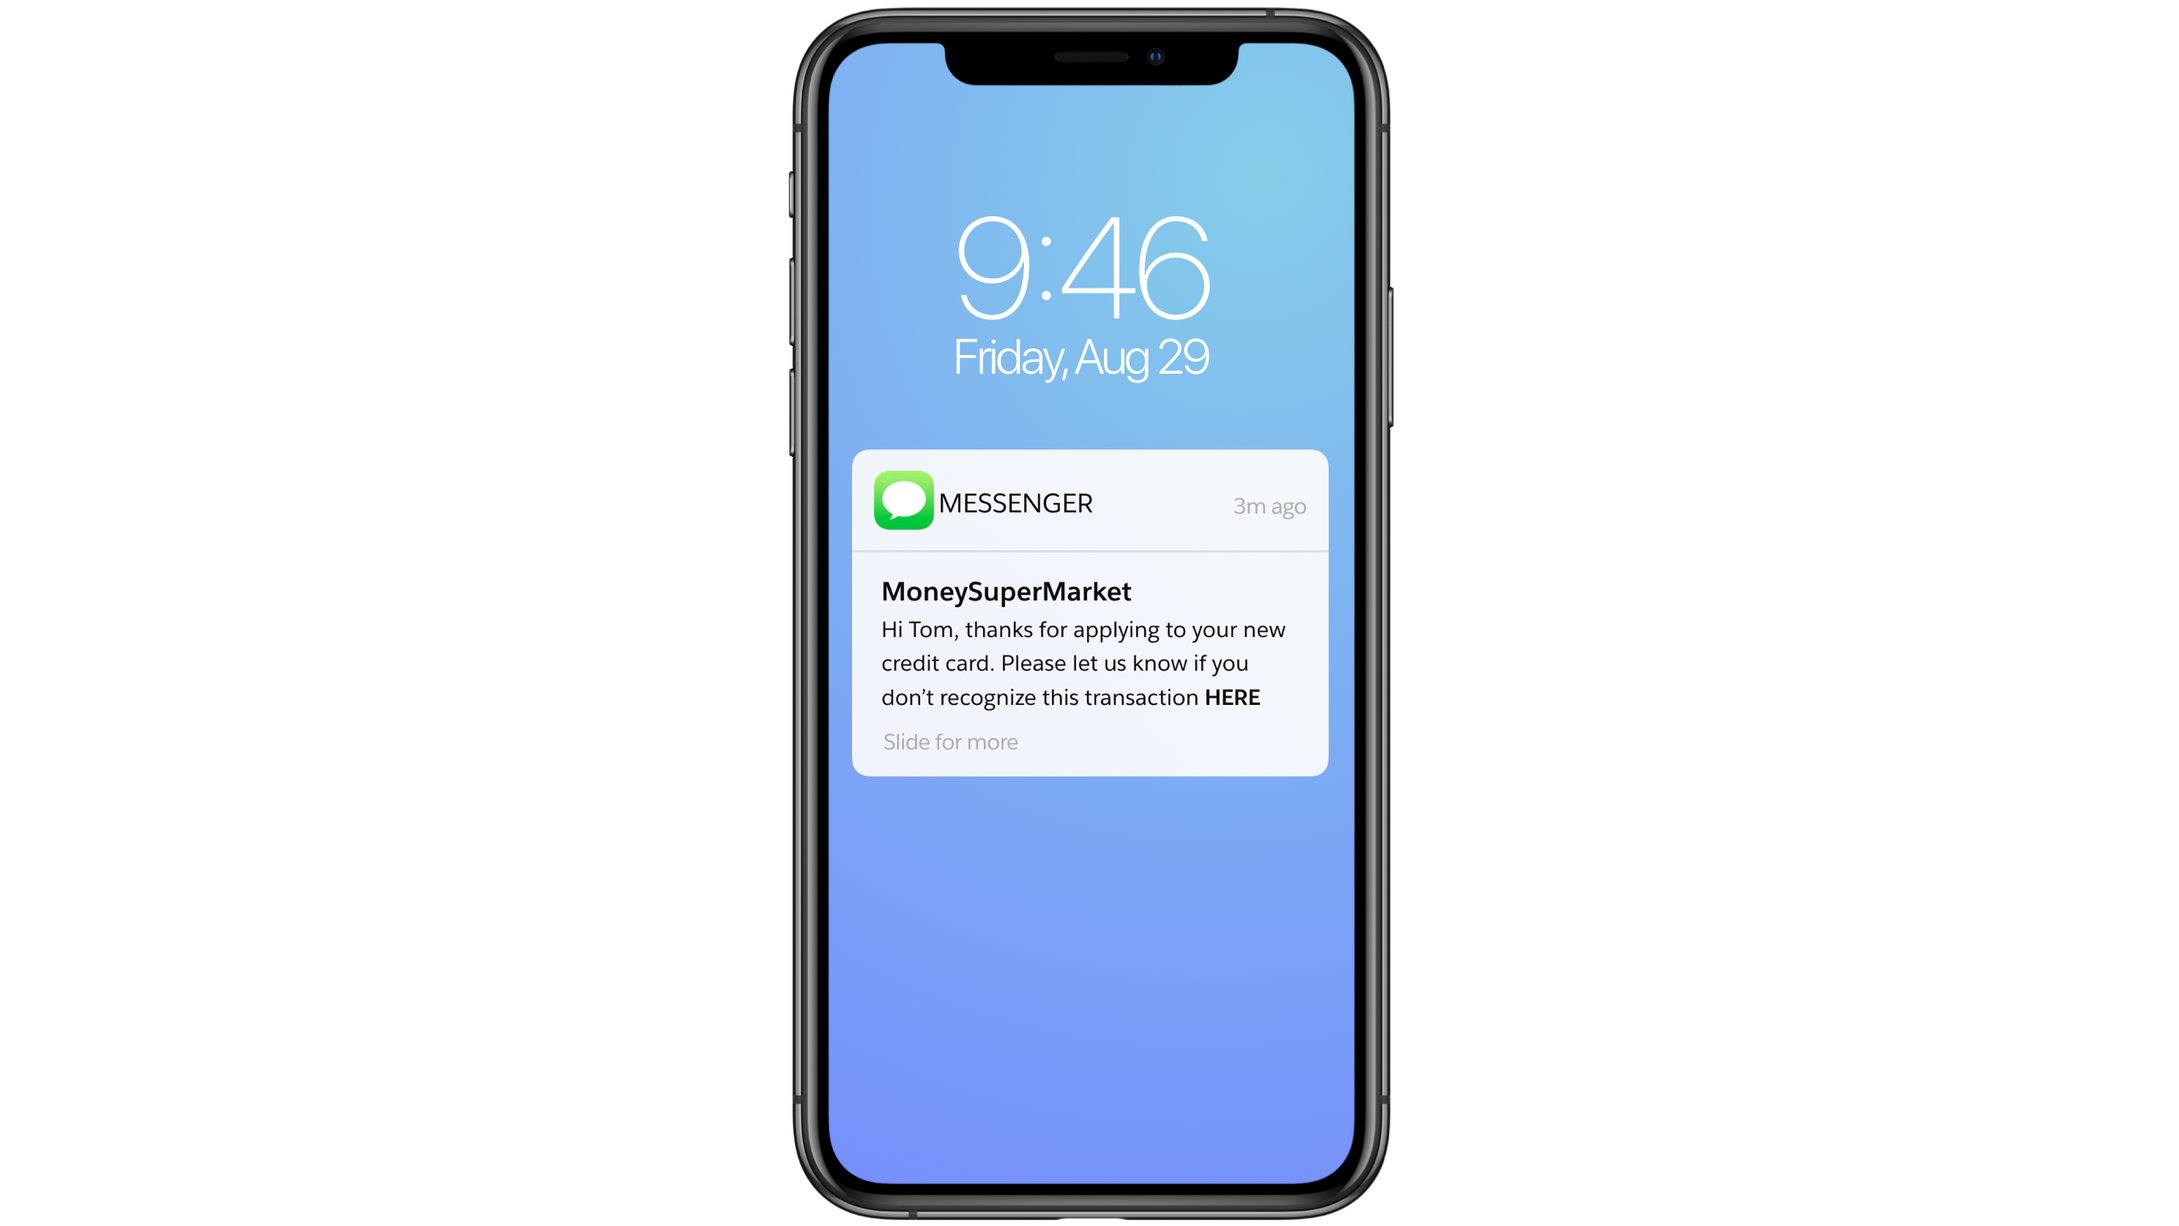
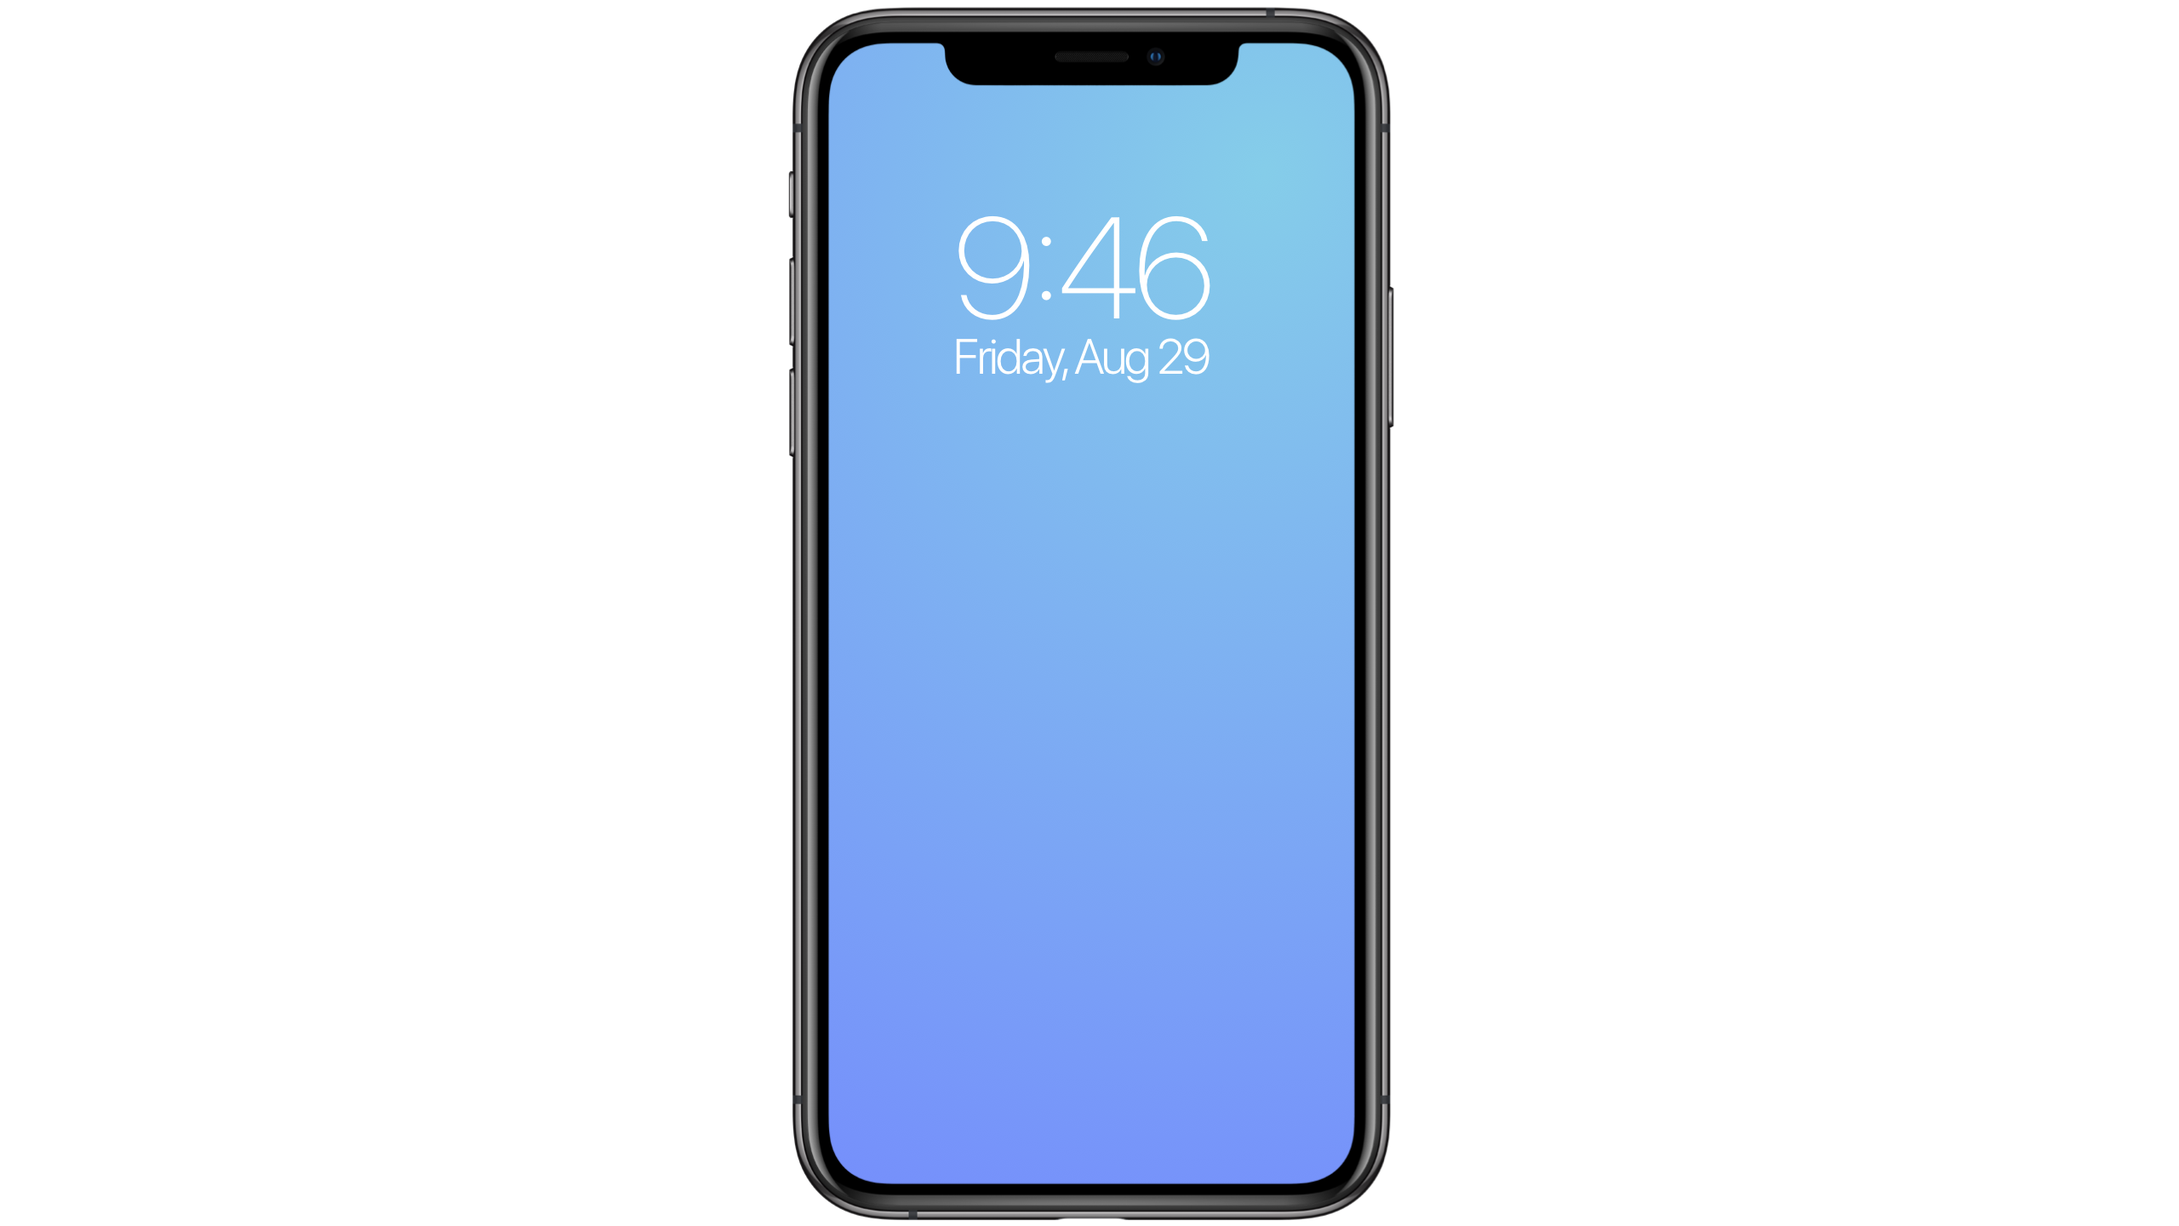
WIP

Changed region(s): [[0.375, 0.3438, 0.625, 0.6562]]

diff --git a/magick-flows-web-root/magick-flows/msm/assets/styles.css b/magick-flows-web-root/magick-flows/msm/assets/styles.css
@@ -2,7 +2,7 @@
 /* This is done to preload images and reduce load flicker */
 body::after {
   backface-visibility: visible;
-  content: url("/magick-flows/msm/main/0000___ID=msm-home___DATA=is-own-header__own-header-height--60___NOTES=Click-the-“Mortgages”-card.png") url("/magick-flows/msm/main/0050___ID=msm-mortgages___DATA=is-own-header__own-header-height--60___NOTES=Click-the-pink-“eligibility”-button__Near-the-house.png") url("/magick-flows/msm/main/0100___ID=msm-next___DATA=is-own-header__own-header-height--60___NOTES=Click-to-go-to-next-step.png") url("/magick-flows/msm/main/0600___ID=msm___DATA=unset___NOTES=Click-to-move-on.png") url("/magick-flows/msm/main/0700___ID=msm___DATA=unset___NOTES=Click-to-move-on.png") url("/magick-flows/msm/main/0800___ID=msm___DATA=unset___NOTES=Click-to-move-on.png") url("/magick-flows/msm/main/0900___ID=msm___DATA=unset___NOTES=Click-to-move-on.png") url("/magick-flows/msm/main/1000___ID=msm___DATA=use-step-transition__step-transition_app-switch__use-mobile-backdrop___NOTES=Click-to-move-on.png") url("/magick-flows/msm/main/1100___ID=msm___DATA=use-step-transition__step-transition_auto-advance__step-transition-timing--fast___NOTES=Click-to-move-on.png") url("/magick-flows/msm/main/1101___ID=msm___DATA=use-step-transition__step-transition_auto-advance__step-transition-timing--fast___NOTES=Click-to-move-on.png") url("/magick-flows/msm/main/1102___ID=msm___DATA=use-step-transition__step-transition_auto-advance__step-transition-timing--fast___NOTES=Click-to-move-on.png") url("/magick-flows/msm/main/1103___ID=msm___DATA=use-step-transition__step-transition_auto-advance__step-transition-timing--fast___NOTES=Click-to-move-on.png") url("/magick-flows/msm/main/1104___ID=msm___DATA=use-step-transition__step-transition_auto-advance__step-transition-timing--fast___NOTES=Click-to-move-on.png") url("/magick-flows/msm/main/1120___ID=msm___DATA=unset___NOTES=Click-to-move-on.png") url("/magick-flows/msm/main/1300___ID=msm___DATA=unset___NOTES=Click-to-move-on.png") url("/magick-flows/msm/main/1310___ID=msm-hello-there-email-entered___DATA=use-step-transition__step-transition_auto-advance__step-transition-timing--fast___NOTES=Click-to-move-on.png") url("/magick-flows/msm/main/1320___ID=msm-hello-there-email-entered___DATA=use-step-transition__step-transition_auto-advance__step-transition-timing--fast___NOTES=Click-to-move-on.png") url("/magick-flows/msm/main/1330___ID=msm-hello-there-email-entered___DATA=use-step-transition__step-transition_auto-advance__step-transition-timing--fast___NOTES=Click-to-move-on.png") url("/magick-flows/msm/main/1340___ID=msm-hello-there-email-entered___DATA=use-step-transition__step-transition_auto-advance__step-transition-timing--fast___NOTES=Click-to-move-on.png") url("/magick-flows/msm/main/1350___ID=msm-hello-there-email-entered___DATA=use-step-transition__step-transition_auto-advance__step-transition-timing--fast___NOTES=Click-to-move-on.png") url("/magick-flows/msm/main/1360___ID=msm-hello-there-email-entered___DATA=use-step-transition__step-transition_auto-advance__step-transition-timing--fast___NOTES=Click-to-move-on.png") url("/magick-flows/msm/main/1500___ID=msm___DATA=unset___NOTES=Click-to-move-on.png") url("/magick-flows/msm/main/1600___ID=msm___DATA=use-step-transition__step-transition_app-switch___NOTES=Click-to-move-on.png") url("/magick-flows/msm/main/1700___ID=msm___DATA=unset___NOTES=Click-to-move-on.png") url("/magick-flows/msm/main/2200___ID=msm-edit-email-begins___DATA=show-drawer-from-left--on-arrival__hide-drawer-from-left--never__use-step-transition__step-transition_auto-advance__step-transition-timing--normal___NOTES=Click-to-move-on.png") url("/magick-flows/msm/main/2210___ID=msm-edit-email___DATA=unset___NOTES=Click-to-move-on.png") url("/magick-flows/msm/main/2300___ID=msm___DATA=unset___NOTES=Click-to-move-on.png") url("/magick-flows/msm/main/2400___ID=msm___DATA=unset___NOTES=Click-to-move-on.png") url("/magick-flows/msm/main/2500___ID=msm___DATA=unset___NOTES=Click-to-move-on.png") url("/magick-flows/msm/main/2600___ID=msm___DATA=unset___NOTES=Click-to-move-on.png") url("/magick-flows/msm/main/2650___ID=msm-edit-email-will-end___DATA=unset___NOTES=Click-the-“Save”-button-to-close-the-email-editor.png") url("/magick-flows/msm/main/2700___ID=msm-edit-email-ends___DATA=show-drawer-from-left--instantly__hide-drawer-from-left--on-leave__use-step-transition__step-transition_auto-advance__step-transition-timing--normal___NOTES=Drawer-hides__Will-auto-advance.png") url("/magick-flows/msm/main/2800___ID=msm___DATA=unset___NOTES=Click-the-“Activate”-button.png") url("/magick-flows/msm/main/2900___ID=msm___DATA=use-step-transition__step-transition_app-switch___NOTES=Click-to-move-on.png") url("/magick-flows/msm/main/3100___ID=msm___DATA=unset___NOTES=Click-to-move-on.png") url("/magick-flows/msm/main/3200___ID=msm___DATA=use-step-transition__step-transition_app-switch___NOTES=Click-to-move-on.png") url("/magick-flows/msm/main/3300___ID=msm___DATA=unset___NOTES=Click-to-move-on.png") url("/magick-flows/msm/main/3500___ID=msm___DATA=use-step-transition__step-transition_app-switch___NOTES=Click-to-move-on.png") url("/magick-flows/msm/main/3600___ID=msm-push-credit-card___DATA=@AAFAST___NOTES=Click-to-move-on.png") url("/magick-flows/msm/main/3650___ID=msm-push-credit-card___DATA=show-ios-notification___NOTES=Click-to-move-on.png") url("/magick-flows/msm/main/3700___ID=msm-credit-card___DATA=unset___NOTES=Click-to-move-on.png") url("/magick-flows/msm/main/3700___ID=msm-iphone-home-screen___DATA=use-step-transition__step-transition_app-switch___NOTES=Click-to-move-on.png") url("/magick-flows/msm/main/4000___ID=msm-cc-app-msg___DATA=show-ios-notification___NOTES=Click-to-move-on.png") url("/magick-flows/msm/main/4200___ID=msm___DATA=use-step-transition__step-transition_app-switch___NOTES=Click-to-move-on.png") url("/magick-flows/msm/main/4300___ID=msm___DATA=unset___NOTES=Click-to-move-on.png") url("/magick-flows/msm/main/4500___ID=msm___DATA=use-step-transition__step-transition_auto-advance__step-transition-timing--normal___NOTES=Click-to-move-on.png") url("/magick-flows/msm/main/4600___ID=msm___DATA=use-step-transition__step-transition_auto-advance__step-transition-timing--normal___NOTES=Click-to-move-on.png") url("/magick-flows/msm/main/4800___ID=msm___DATA=use-step-transition__step-transition_app-switch___NOTES=Click-to-move-on.png") url("/magick-flows/msm/main/4900___ID=datorama-mix-and-connect___DATA=show-drawer-from-left--instantly__hide-drawer-from-left--never__is-own-header__own-header-height--60___NOTES=Notes-go-here.png") url("/magick-flows/msm/main/5000___ID=msm-ccredit-monitor-home___DATA=use-step-transition__step-transition_app-switch___NOTES=Click-to-move-on.png") url("/magick-flows/msm/main/5100___ID=msm-ccredit-monitor-msg___DATA=show-ios-notification___NOTES=Click-to-move-on.png") url("/magick-flows/msm/main/9999___ID=msm-final-step___DATA=use-step-transition__step-transition_app-switch___NOTES=End.png") url("/magick-flows/msm/assets/all__mobile-backdrop.png") url("/magick-flows/msm/assets/all__viewport-size.png") url("/magick-flows/msm/assets/datorama-mix-and-connect___drawer-from-left.png") url("/magick-flows/msm/assets/msm-cc-app-msg___ios-notification.png") url("/magick-flows/msm/assets/msm-ccredit-monitor-msg___ios-notification.png") url("/magick-flows/msm/assets/msm-edit-email-begins___drawer-from-left.png") url("/magick-flows/msm/assets/msm-edit-email-ends___drawer-from-left.png") url("/magick-flows/msm/assets/msm-push-credit-card___drawer-from-top.png") url("/magick-flows/msm/assets/msm-push-credit-card___ios-notification.png");
+  content: url("/magick-flows/msm/main/0000___ID=msm-home___DATA=is-own-header__own-header-height--60___NOTES=Click-the-“Mortgages”-card.png") url("/magick-flows/msm/main/0050___ID=msm-mortgages___DATA=is-own-header__own-header-height--60___NOTES=Click-the-pink-“eligibility”-button__Near-the-house.png") url("/magick-flows/msm/main/0100___ID=msm-next___DATA=is-own-header__own-header-height--60___NOTES=Click-to-go-to-next-step.png") url("/magick-flows/msm/main/0600___ID=msm___DATA=unset___NOTES=Click-to-move-on.png") url("/magick-flows/msm/main/0700___ID=msm___DATA=unset___NOTES=Click-to-move-on.png") url("/magick-flows/msm/main/0800___ID=msm___DATA=unset___NOTES=Click-to-move-on.png") url("/magick-flows/msm/main/0900___ID=msm___DATA=unset___NOTES=Click-to-move-on.png") url("/magick-flows/msm/main/1000___ID=msm___DATA=use-step-transition__step-transition_app-switch__use-mobile-backdrop___NOTES=Click-to-move-on.png") url("/magick-flows/msm/main/1100___ID=msm___DATA=use-step-transition__step-transition_auto-advance__step-transition-timing--fast___NOTES=Click-to-move-on.png") url("/magick-flows/msm/main/1101___ID=msm___DATA=use-step-transition__step-transition_auto-advance__step-transition-timing--fast___NOTES=Click-to-move-on.png") url("/magick-flows/msm/main/1102___ID=msm___DATA=use-step-transition__step-transition_auto-advance__step-transition-timing--fast___NOTES=Click-to-move-on.png") url("/magick-flows/msm/main/1103___ID=msm___DATA=use-step-transition__step-transition_auto-advance__step-transition-timing--fast___NOTES=Click-to-move-on.png") url("/magick-flows/msm/main/1104___ID=msm___DATA=use-step-transition__step-transition_auto-advance__step-transition-timing--fast___NOTES=Click-to-move-on.png") url("/magick-flows/msm/main/1120___ID=msm___DATA=unset___NOTES=Click-to-move-on.png") url("/magick-flows/msm/main/1300___ID=msm___DATA=unset___NOTES=Click-to-move-on.png") url("/magick-flows/msm/main/1310___ID=msm-hello-there-email-entered___DATA=use-step-transition__step-transition_auto-advance__step-transition-timing--fast___NOTES=Click-to-move-on.png") url("/magick-flows/msm/main/1320___ID=msm-hello-there-email-entered___DATA=use-step-transition__step-transition_auto-advance__step-transition-timing--fast___NOTES=Click-to-move-on.png") url("/magick-flows/msm/main/1330___ID=msm-hello-there-email-entered___DATA=use-step-transition__step-transition_auto-advance__step-transition-timing--fast___NOTES=Click-to-move-on.png") url("/magick-flows/msm/main/1340___ID=msm-hello-there-email-entered___DATA=use-step-transition__step-transition_auto-advance__step-transition-timing--fast___NOTES=Click-to-move-on.png") url("/magick-flows/msm/main/1350___ID=msm-hello-there-email-entered___DATA=use-step-transition__step-transition_auto-advance__step-transition-timing--fast___NOTES=Click-to-move-on.png") url("/magick-flows/msm/main/1360___ID=msm-hello-there-email-entered___DATA=use-step-transition__step-transition_auto-advance__step-transition-timing--fast___NOTES=Click-to-move-on.png") url("/magick-flows/msm/main/1500___ID=msm___DATA=unset___NOTES=Click-to-move-on.png") url("/magick-flows/msm/main/1600___ID=msm___DATA=use-step-transition__step-transition_app-switch___NOTES=Click-to-move-on.png") url("/magick-flows/msm/main/1700___ID=msm___DATA=unset___NOTES=Click-to-move-on.png") url("/magick-flows/msm/main/2200___ID=msm-edit-email-begins___DATA=show-drawer-from-left--on-arrival__hide-drawer-from-left--never__use-step-transition__step-transition_auto-advance__step-transition-timing--normal___NOTES=Click-to-move-on.png") url("/magick-flows/msm/main/2210___ID=msm-edit-email___DATA=unset___NOTES=Click-to-move-on.png") url("/magick-flows/msm/main/2300___ID=msm___DATA=unset___NOTES=Click-to-move-on.png") url("/magick-flows/msm/main/2400___ID=msm___DATA=unset___NOTES=Click-to-move-on.png") url("/magick-flows/msm/main/2500___ID=msm___DATA=unset___NOTES=Click-to-move-on.png") url("/magick-flows/msm/main/2600___ID=msm___DATA=unset___NOTES=Click-to-move-on.png") url("/magick-flows/msm/main/2650___ID=msm-edit-email-will-end___DATA=unset___NOTES=Click-the-“Save”-button-to-close-the-email-editor.png") url("/magick-flows/msm/main/2700___ID=msm-edit-email-ends___DATA=show-drawer-from-left--instantly__hide-drawer-from-left--on-leave__use-step-transition__step-transition_auto-advance__step-transition-timing--normal___NOTES=Drawer-hides__Will-auto-advance.png") url("/magick-flows/msm/main/2800___ID=msm___DATA=unset___NOTES=Click-the-“Activate”-button.png") url("/magick-flows/msm/main/2900___ID=msm___DATA=use-step-transition__step-transition_app-switch___NOTES=Click-to-move-on.png") url("/magick-flows/msm/main/3100___ID=msm___DATA=unset___NOTES=Click-to-move-on.png") url("/magick-flows/msm/main/3200___ID=msm___DATA=use-step-transition__step-transition_app-switch___NOTES=Click-to-move-on.png") url("/magick-flows/msm/main/3300___ID=msm___DATA=unset___NOTES=Click-to-move-on.png") url("/magick-flows/msm/main/3500___ID=msm___DATA=use-step-transition__step-transition_app-switch___NOTES=Click-to-move-on.png") url("/magick-flows/msm/main/3650___ID=msm-push-credit-card___DATA=show-ios-notification___NOTES=Click-to-move-on.png") url("/magick-flows/msm/main/3700___ID=msm-credit-card___DATA=unset___NOTES=Click-to-move-on.png") url("/magick-flows/msm/main/3700___ID=msm-iphone-home-screen___DATA=use-step-transition__step-transition_app-switch___NOTES=Click-to-move-on.png") url("/magick-flows/msm/main/4000___ID=msm-cc-app-msg___DATA=show-ios-notification___NOTES=Click-to-move-on.png") url("/magick-flows/msm/main/4200___ID=msm___DATA=use-step-transition__step-transition_app-switch___NOTES=Click-to-move-on.png") url("/magick-flows/msm/main/4300___ID=msm___DATA=unset___NOTES=Click-to-move-on.png") url("/magick-flows/msm/main/4500___ID=msm___DATA=use-step-transition__step-transition_auto-advance__step-transition-timing--normal___NOTES=Click-to-move-on.png") url("/magick-flows/msm/main/4600___ID=msm___DATA=use-step-transition__step-transition_auto-advance__step-transition-timing--normal___NOTES=Click-to-move-on.png") url("/magick-flows/msm/main/4800___ID=msm___DATA=use-step-transition__step-transition_app-switch___NOTES=Click-to-move-on.png") url("/magick-flows/msm/main/4900___ID=datorama-mix-and-connect___DATA=show-drawer-from-left--instantly__hide-drawer-from-left--never__is-own-header__own-header-height--60___NOTES=Notes-go-here.png") url("/magick-flows/msm/main/5000___ID=msm-ccredit-monitor-home___DATA=use-step-transition__step-transition_app-switch___NOTES=Click-to-move-on.png") url("/magick-flows/msm/main/5100___ID=msm-ccredit-monitor-msg___DATA=show-ios-notification___NOTES=Click-to-move-on.png") url("/magick-flows/msm/main/9999___ID=msm-final-step___DATA=use-step-transition__step-transition_app-switch___NOTES=End.png") url("/magick-flows/msm/assets/all__mobile-backdrop.png") url("/magick-flows/msm/assets/all__viewport-size.png") url("/magick-flows/msm/assets/datorama-mix-and-connect___drawer-from-left.png") url("/magick-flows/msm/assets/msm-cc-app-msg___ios-notification.png") url("/magick-flows/msm/assets/msm-ccredit-monitor-msg___ios-notification.png") url("/magick-flows/msm/assets/msm-edit-email-begins___drawer-from-left.png") url("/magick-flows/msm/assets/msm-edit-email-ends___drawer-from-left.png") url("/magick-flows/msm/assets/msm-push-credit-card___ios-notification.png");
   outline: 1px solid red;
   height: 0;
   overflow: hidden;
@@ -166,7 +166,7 @@ body, .container {
   position: absolute;
   top: 0;
   transition: 2000ms transform, 800ms left;
-  width: 131840px;
+  width: 129280px;
 }
 
 .app-switcher-one.shrink {
@@ -1860,38 +1860,6 @@ body.debug div#drawer-from-top--step-51::before {
   top: 0;
   width: 1280px;
   left: 130560px;
-}
-
-.app-switcher-one.be-left-52 {
-  left: -133120px;
-  transition: none !important;
-  will-change: transform, left;
-}
-
-.app-switcher-one.slide-left-52 {
-  left: -133120px;
-}
-
-body.debug div#drawer-from-top--step-52::before {
-  content: "Drawer #52";
-  display: block;
-  width: 100vw;
-  height: 3rem;
-  position: absolute;
-  bottom: 0rem;
-  background: rgba(0, 0, 0, 0.16);
-  text-align: center;
-  color: black;
-  margin: auto;
-  font-size: 2rem;
-}
-
-.magick-flows--step-52 {
-  height: 720px;
-  position: absolute;
-  top: 0;
-  width: 1280px;
-  left: 133120px;
 }
 
 footer.magick-flows-stickey-footer_container {

diff --git a/magick-flows-web-root/magick-flows/msm/assets/variables.scss b/magick-flows-web-root/magick-flows/msm/assets/variables.scss
@@ -1,4 +1,4 @@
-$numberOfSlides: 52;
+$numberOfSlides: 51;
 $preloadImagesData: url('/magick-flows/msm/main/0000___ID=msm-home___DATA=is-own-header__own-header-height--60___NOTES=Click-the-“Mortgages”-card.png')
 		url('/magick-flows/msm/main/0050___ID=msm-mortgages___DATA=is-own-header__own-header-height--60___NOTES=Click-the-pink-“eligibility”-button__Near-the-house.png')
 		url('/magick-flows/msm/main/0100___ID=msm-next___DATA=is-own-header__own-header-height--60___NOTES=Click-to-go-to-next-step.png')
@@ -37,7 +37,6 @@ $preloadImagesData: url('/magick-flows/msm/main/0000___ID=msm-home___DATA=is-own
 		url('/magick-flows/msm/main/3200___ID=msm___DATA=use-step-transition__step-transition_app-switch___NOTES=Click-to-move-on.png')
 		url('/magick-flows/msm/main/3300___ID=msm___DATA=unset___NOTES=Click-to-move-on.png')
 		url('/magick-flows/msm/main/3500___ID=msm___DATA=use-step-transition__step-transition_app-switch___NOTES=Click-to-move-on.png')
-		url('/magick-flows/msm/main/3600___ID=msm-credit-card-pre-push-message___DATA=use-step-transition__step-transition_auto-advance__step-transition-timing--fast___NOTES=Click-to-move-on.png')
 		url('/magick-flows/msm/main/3650___ID=msm-push-credit-card___DATA=show-ios-notification___NOTES=Click-to-move-on.png')
 		url('/magick-flows/msm/main/3700___ID=msm-credit-card___DATA=unset___NOTES=Click-to-move-on.png')
 		url('/magick-flows/msm/main/3700___ID=msm-iphone-home-screen___DATA=use-step-transition__step-transition_app-switch___NOTES=Click-to-move-on.png')
@@ -58,7 +57,6 @@ $preloadImagesData: url('/magick-flows/msm/main/0000___ID=msm-home___DATA=is-own
 		url('/magick-flows/msm/assets/msm-ccredit-monitor-msg___ios-notification.png')
 		url('/magick-flows/msm/assets/msm-edit-email-begins___drawer-from-left.png')
 		url('/magick-flows/msm/assets/msm-edit-email-ends___drawer-from-left.png')
-		url('/magick-flows/msm/assets/msm-push-credit-card___drawer-from-top.png')
 		url('/magick-flows/msm/assets/msm-push-credit-card___ios-notification.png');
 $heightOfSlideValue: 720;
 $widthOfSlideValue: 1280;
